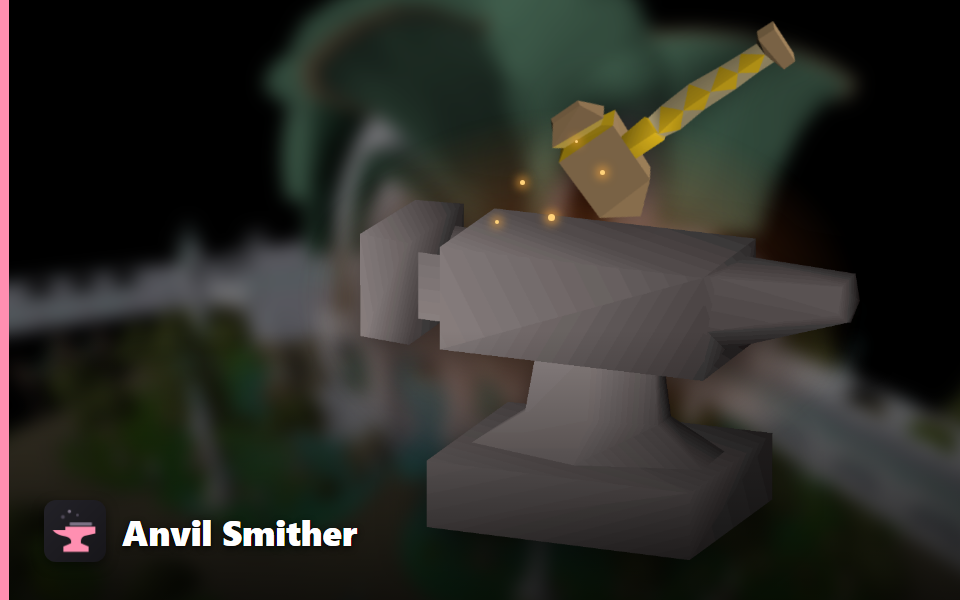
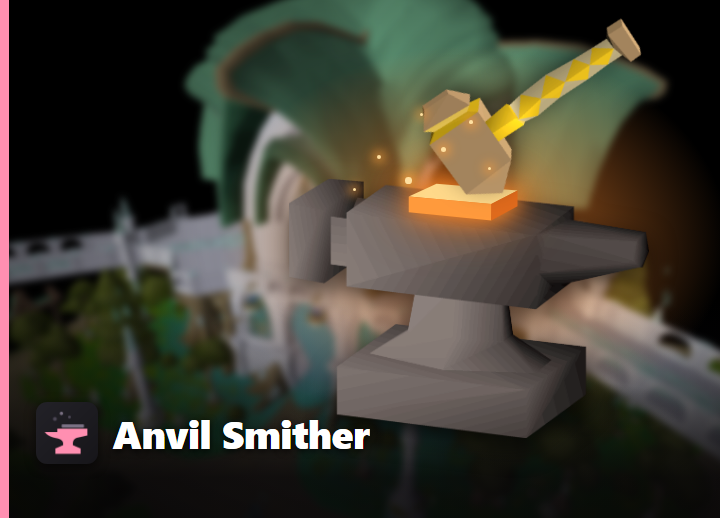
fix(herbihunter, anvilsmither): show one author and fix the hub cards (1.0.1)

diff --git a/src/main/java/net/runelite/client/plugins/microbot/anvilsmither/AnvilSmitherPlugin.java b/src/main/java/net/runelite/client/plugins/microbot/anvilsmither/AnvilSmitherPlugin.java
@@ -13,10 +13,10 @@ import javax.inject.Inject;
 
 @PluginDescriptor(
         name = AnvilSmitherPlugin.PREFIX + "Anvil Smither",
-        authors = {"StickToTheScript", "chsami", "Igor", "George M", "irkedMATT"},
+        authors = {"irkedMATT"},
         version = AnvilSmitherPlugin.version,
-        description = "Smiths bars into items at an anvil next to a bank: Varrock west or Prifddinas south. Banks every load, and makes Sailing keel parts too.",
-        tags = {"smithing", "anvil", "varrock", "prifddinas", "bars", "keel parts", "sailing", "irked"},
+        description = "Smiths bars next to a bank in Varrock or Prifddinas, and makes Sailing keel parts.",
+        tags = {"smithing", "varrock", "sailing", "irked"},
         cardUrl = "https://chsami.github.io/Microbot-Hub/AnvilSmitherPlugin/assets/card.png",
         iconUrl = "https://chsami.github.io/Microbot-Hub/AnvilSmitherPlugin/assets/icon.png",
         enabledByDefault = PluginConstants.DEFAULT_ENABLED,
@@ -26,7 +26,7 @@ import javax.inject.Inject;
 
 @Slf4j
 public class AnvilSmitherPlugin extends Plugin {
-    static final String version = "1.0.0";
+    static final String version = "1.0.1";
     static final String PREFIX = "<html>[<font color=#FF8FB1>irk</font>] ";
     @Inject
     private AnvilSmitherConfig config;

diff --git a/src/main/java/net/runelite/client/plugins/microbot/herbihunter/HerbiHunterPlugin.java b/src/main/java/net/runelite/client/plugins/microbot/herbihunter/HerbiHunterPlugin.java
@@ -55,8 +55,8 @@ import java.util.concurrent.CopyOnWriteArrayList;
 @PluginDescriptor(
         name = HerbiHunterPlugin.PREFIX + "Herbi Hunter",
         description = "Hunts herbiboars on Fossil Island with Relaxed and Focused play styles, banking, restocking and session history.",
-        tags = {"herbiboar", "herbi hunter", "herbi", "hunter", "herblore", "fossil island", "skilling", "irked"},
-        authors = {"Igor", "chsami", "Kavraka91", "irkedMATT"},
+        tags = {"herbiboar", "hunter", "herblore", "irked"},
+        authors = {"irkedMATT"},
         version = HerbiHunterPlugin.version,
         minClientVersion = "2.6.60",
         iconUrl = "https://chsami.github.io/Microbot-Hub/HerbiHunterPlugin/assets/icon.png",
@@ -66,7 +66,7 @@ import java.util.concurrent.CopyOnWriteArrayList;
 )
 
 public class HerbiHunterPlugin extends Plugin {
-    static final String version = "1.0.0";
+    static final String version = "1.0.1";
     // Kept here, not in PluginConstants, so the PR stays inside this plugin's folder.
     static final String PREFIX = "<html>[<font color=#FF8FB1>irk</font>] ";
 

diff --git a/src/main/resources/net/runelite/client/plugins/microbot/anvilsmither/docs/README.md b/src/main/resources/net/runelite/client/plugins/microbot/anvilsmither/docs/README.md
@@ -2,9 +2,10 @@
 
 Smiths bars into items at an anvil next to a bank, at **Varrock west** or **Prifddinas south**, banking every load. Makes Sailing keel parts too.
 
-Authors: **StickToTheScript**, **chsami**, **Igor**, **George M**, **irkedMATT**
-
 ![Panel](assets/panel.png)
+
+## Credits
+Built on the Varrock Anvil plugin, with work from StickToTheScript, chsami, Igor and George M. I did the rework.
 
 ## What you need
 - The Smithing level for the item you pick. It is checked when you start, and the message tells you the level you need.
@@ -84,6 +85,9 @@ Shows what it is doing, items made and the load in progress, items per hour with
 For the Microbot RuneLite client only. Automation is against Jagex's rules and can get an account banned. Use at your own risk.
 
 ## Changelog
+### 1.0.1
+New card picture, shorter description and tags, and credits in their own section.
+
 ### 1.0.0
 First release as Anvil Smither, built on the Varrock Anvil plugin.
 - Prifddinas south added beside Varrock west.

diff --git a/src/main/resources/net/runelite/client/plugins/microbot/herbihunter/docs/README.md b/src/main/resources/net/runelite/client/plugins/microbot/herbihunter/docs/README.md
@@ -2,8 +2,6 @@
 
 Hunts herbiboars on Fossil Island: follows the trail, attacks the tunnel, harvests the herbs and banks at the Museum Camp.
 
-![Herbi Hunter](assets/card.png)
-
 ## Credits
 Built on the Herbiboar plugin by Igor, with work from chsami and Kavraka91. I added the play styles, the humanised mouse and keyboard input and the panel.
 
